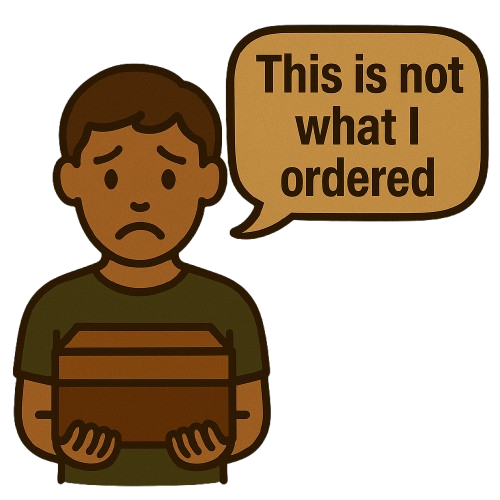
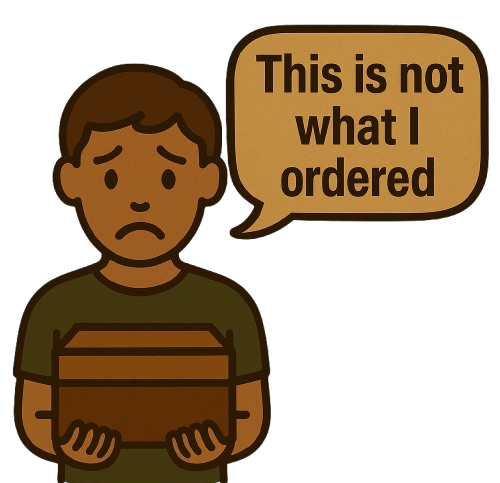
differentiation between correct and incorrect orders

diff --git a/hproject/src/main/java/com/example/PickUpStation.java b/hproject/src/main/java/com/example/PickUpStation.java
@@ -125,7 +125,11 @@ public class PickUpStation extends Application {
 
         item.setOnMouseReleased((MouseEvent e) -> {
             if (item.getBoundsInParent().intersects(customerView.getBoundsInParent())) {
-                customerView.setImage(load("customer_2.png"));
+                if (Constants.CORRECT_CAKE) {
+                    customerView.setImage(load("customer_2.png"));
+                } else {
+                    customerView.setImage(load("customer_3.png"));
+                }
                 item.setVisible(false);
                 if (!root.getChildren().contains(nextOrderButton)) {
                     root.getChildren().add(nextOrderButton); // ✅ now add button

diff --git a/hproject/src/main/java/com/example/DecoratingMechanism.java b/hproject/src/main/java/com/example/DecoratingMechanism.java
@@ -169,6 +169,8 @@ public class DecoratingMechanism extends Application {
                     boxView.setImage(load(boxImage));
                     cakeView.setVisible(false);
                     Constants.CAKE_DECORATED = true;
+                    String expected = Constants.CAKE_OPTIONS[Constants.CURRENT_ORDER_INDEX];
+                    Constants.CORRECT_CAKE = expected.contains(currentCake.replace(".png", ""));
 
                     // Delay closing after box image update
                     PauseTransition delay = new PauseTransition(Duration.seconds(1.2));

diff --git a/hproject/src/main/java/com/example/Constants.java b/hproject/src/main/java/com/example/Constants.java
@@ -189,6 +189,8 @@ public class Constants {
 
     public static int CURRENT_ORDER_INDEX = 0;
 
+    public static boolean CORRECT_CAKE = false;
+
     // public static File selectedCakeFile = new File("hproject\\src\\main\\resources\\" + Constants.CAKE_OPTIONS[Constants.CURRENT_ORDER_INDEX]);
     // public static Image selectedCakeImage = new Image(selectedCakeFile.toURI().toString());
     // public static ImageView selectedCakeImageView = new ImageView(selectedCakeImage);
